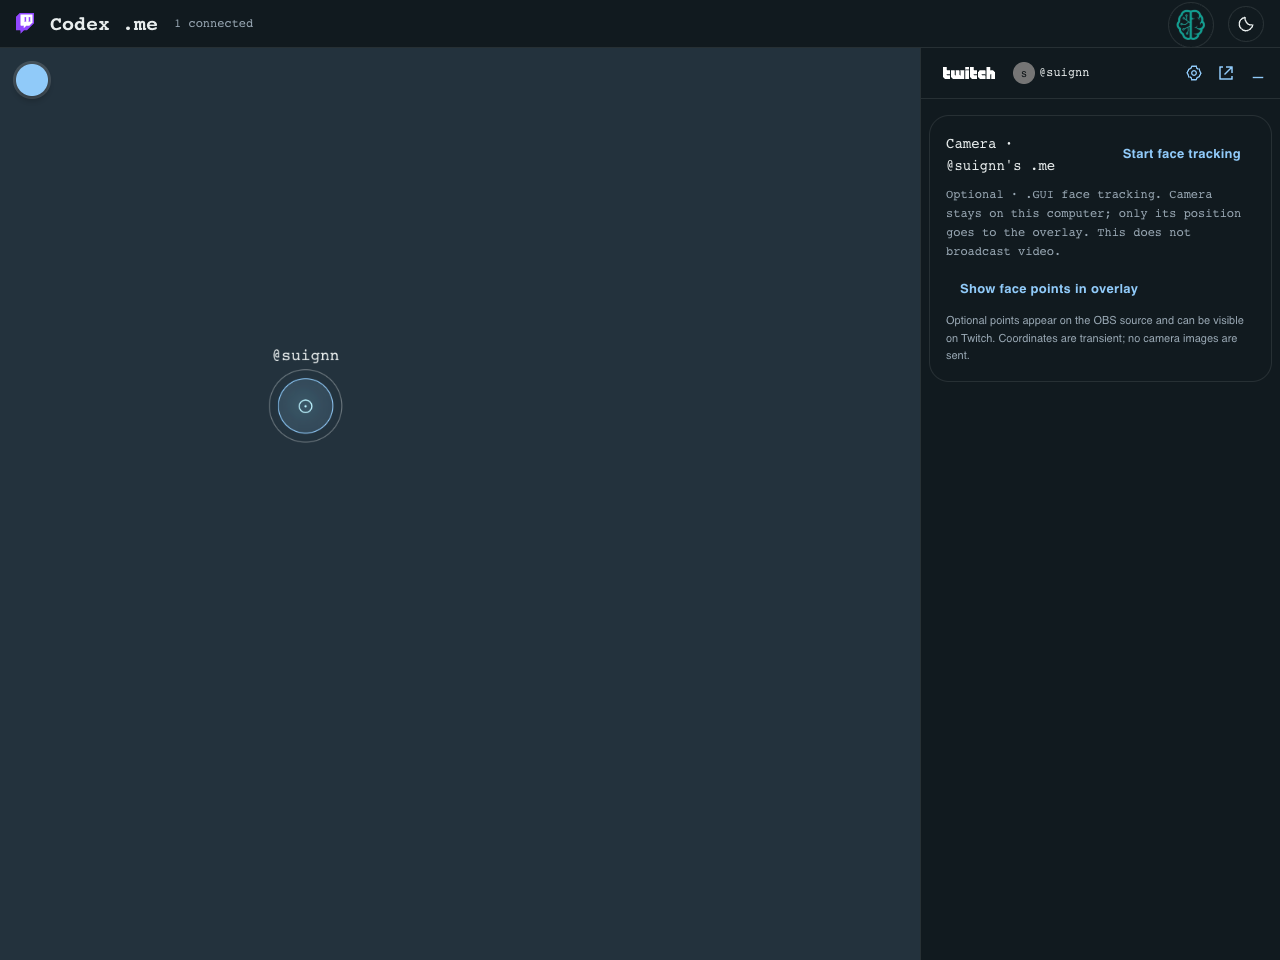
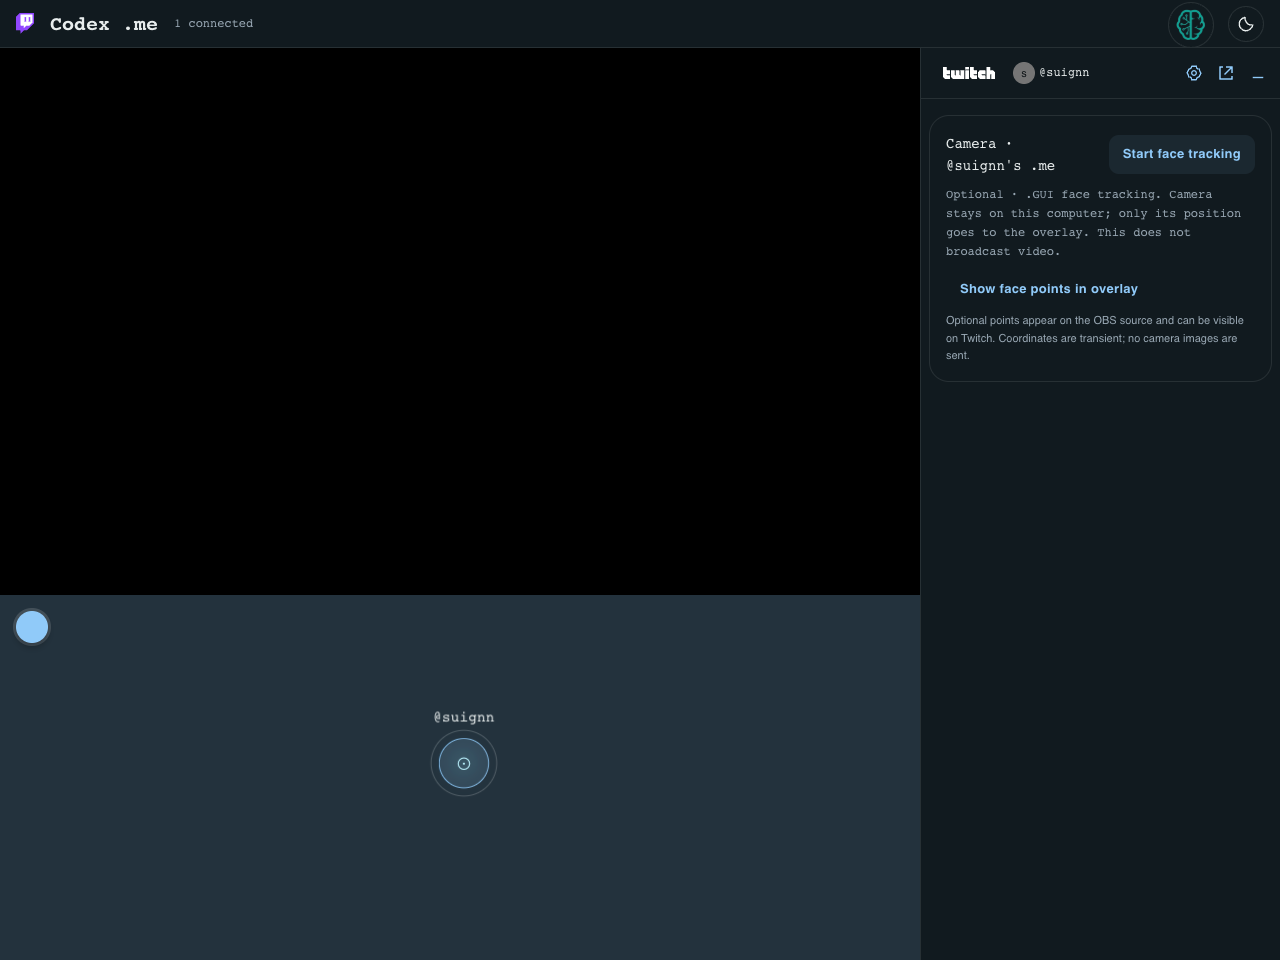
fix: restore bubble card and show Twitch video in web demo

diff --git a/overlay/spiders.js b/overlay/spiders.js
@@ -1,4 +1,5 @@
-import { StreamPresentation, KernelLiveValues } from './stream-presentation.js';
+import { TwitchVideo } from './twitch-video.js';
+import { StreamPresentation } from './stream-presentation.js';
 import { SceneTint } from './scene-tint.js';
 import { FaceControls } from './face-controls.js';
 import { ObsControls } from '/ui/obs-controls.js';
@@ -55,9 +56,8 @@ function BubbleNavigation({ anchor, kernel, path, selectPath, onClose }) {
   return h(Box, { ref: card, 'data-bubble-navigation': kernel.id, role: 'region', 'aria-label': `Controls for @${kernel.owner}`, onKeyDown: event => { if (event.key === 'Escape') { event.stopPropagation(); onClose(); anchor.focus(); } },
     sx: { position: 'absolute', ...position, zIndex: 5, boxSizing: 'border-box', p: 1.5, overflowY: 'auto', bgcolor: 'background.paper', color: 'text.primary', border: 1, borderColor: 'divider', borderRadius: 2, boxShadow: 6, '& [data-path-selected="true"]': { outline: '1px solid', outlineColor: 'primary.main', outlineOffset: 2 } } },
     h(TwitchProfile, { kernel, compact: true, onClose, path, selectPath }),
-    h(KernelLiveValues, { kernel, path, selectPath }),
-    h(TwitchSections, { owner: kernel.owner, path, selectPath }),
-    path.startsWith('twitch') ? h(TwitchSurface, { key: kernel.id, kernel, path, selectPath }) : h(KernelConsole, { kernel, path }));
+    h(TwitchSections, { owner: kernel.owner, path: path.startsWith('twitch') ? path : 'twitch.stream', selectPath }),
+    h(TwitchSurface, { key: kernel.id, kernel, path: path.startsWith('twitch') ? path : 'twitch.stream', selectPath }));
 }
 function Kernel({ kernel, index, count, selected, onSelect, face }) {
   const columns = Math.max(1, Math.ceil(Math.sqrt(count * 16 / 9))), rows = Math.ceil(count / columns);
@@ -167,14 +167,14 @@ function App() {
     hostPresenting.current = showing;
     const timer = setTimeout(async () => {
       try {
-        const response = await fetch('/api/presentation', { method: 'POST', headers: { 'Content-Type': 'application/json', 'X-CSRF-Token': presenter.csrf }, body: JSON.stringify(current && bubbleAnchor && path ? { id: current.id, path, operation: 'explain' } : { visible: false }) });
+        const response = await fetch('/api/presentation', { method: 'POST', headers: { 'Content-Type': 'application/json', 'X-CSRF-Token': presenter.csrf }, body: JSON.stringify(current && bubbleAnchor && path ? { id: current.id, path: path === 'twitch' ? 'twitch.stream' : path, operation: 'explain' } : { visible: false }) });
         setPresentError(response.ok ? '' : 'Could not share selection with OBS. Reload the demo to reconnect.');
       } catch { setPresentError('Could not share selection with OBS.'); }
     }, 250);
     return () => clearTimeout(timer);
   }, [presenter, current?.id, path, !!bubbleAnchor]);
 
-  const section = path === 'twitch' ? 'stream' : path.split('.')[1];
+  const section = path === 'twitch' || (bubbleAnchor && !path.startsWith('twitch.')) ? 'stream' : path.split('.')[1];
   const detailsVisible = (!panelCollapsed && panel === 'inspector') || !!bubbleAnchor;
   React.useEffect(() => {
     if (path.startsWith('twitch.stream.') && current?.graph?.nodes.some(node => node.path === path && node.value == null)) selectPath('twitch.stream');
@@ -204,7 +204,7 @@ function App() {
   };
   const openKernel = (kernel, anchor) => {
     if (transparent) return;
-    if (selected !== kernel.id) { select(kernel.id); selectPath('active'); }
+    if (selected !== kernel.id) { select(kernel.id); selectPath('twitch'); }
     setBubbleAnchor(selected === kernel.id && bubbleAnchor ? null : anchor);
   };
   const scene = h(Box, { component: 'main', sx: { minWidth: 0, minHeight: 0, height: '100%', position: 'relative', color: 'text.primary' } },
@@ -223,7 +223,7 @@ function App() {
       h(Typography, { component: 'a', href: '/', sx: { ...mono, fontSize: 20, fontWeight: 600, color: 'inherit', textDecoration: 'none', '&:hover': { textDecoration: 'underline' } } }, 'Codex .me'),
       h(Typography, { sx: { ...mono, color: 'text.secondary', fontSize: 12 } }, `${kernels.length} ${connected ? 'connected' : 'connecting…'}`), h(Box, { sx: { flex: 1 } }),
       h(ThemeSelector, { reservedRight: panelMode === 'docked' && panel === 'chat' ? 360 : 0 }), h(ModeToggle)),
-    h(Box, { sx: { position: 'relative', display: 'grid', gridTemplateColumns: panelMode === 'docked' ? 'minmax(0, 1fr) 360px' : 'minmax(0, 1fr)', minHeight: 0 } }, scene,
+    h(Box, { sx: { position: 'relative', display: 'grid', gridTemplateColumns: panelMode === 'docked' ? 'minmax(0, 1fr) 360px' : 'minmax(0, 1fr)', minHeight: 0 } }, h(Box, { 'data-web-stage': true, sx: { display: 'grid', gridTemplateRows: 'minmax(300px, 3fr) minmax(180px, 2fr)', minWidth: 0, minHeight: 0, overflow: 'auto' } }, h(TwitchVideo, { channel: channelInfo?.channel }), scene),
       h(Box, { component: 'aside', ref: panelElement, 'aria-label': 'Side panel', 'data-panel-mode': panelMode, sx: { ...(panelMode !== 'docked' ? { position: 'absolute', ...(panelPosition ? { left: panelPosition.left, top: panelPosition.top } : { bottom: panelCollapsed ? 0 : 12, right: 12 }), width: 360, minWidth: 320, maxWidth: panelPosition ? `calc(100% - ${panelPosition.left}px)` : 'calc(100% - 12px)', resize: panelCollapsed ? 'horizontal' : 'both', minHeight: panelCollapsed ? 48 : 280, maxHeight: panelPosition ? `calc(100% - ${panelPosition.top}px)` : 'calc(100% - 12px)', height: panelCollapsed ? 'auto' : 'min(560px, calc(100% - 24px))', zIndex: 2, border: 1, borderRadius: '8px 8px 0 0', boxShadow: 8, overflow: 'hidden' } : { minHeight: 0 }), display: 'flex', flexDirection: 'column', borderLeft: 1, borderColor: 'divider', bgcolor: 'background.paper' } },
         h(Box, { onPointerDown: dragPanel, onPointerMove: movePanel, onPointerUp: () => { panelDrag.current = null; }, onPointerCancel: () => { panelDrag.current = null; }, sx: { cursor: panelMode === 'docked' ? 'default' : 'grab', touchAction: 'none', flexShrink: 0, display: 'flex', alignItems: 'center', gap: .5, p: 1, borderBottom: panelCollapsed ? 0 : 1, borderColor: 'divider' } },
           h(Button, { size: 'small', variant: panel === 'chat' ? 'outlined' : 'text', onClick: () => choosePanel('chat'), 'aria-label': 'Twitch', 'aria-pressed': panel === 'chat', sx: { ...mono, minHeight: 32 } }, h(TwitchWordmark, { width: 52 })),

diff --git a/overlay/stream-presentation.js b/overlay/stream-presentation.js
@@ -4,17 +4,10 @@ export function StreamPresentation({ view }) {
   return h('foreignObject', { x: 55, y: 70, width: 720, height: 900, pointerEvents: 'none', 'data-stream-presentation': view.id, 'data-presentation-path': view.path },
     h(G.Atoms.Box, { sx: { p: 3, borderRadius: 3, bgcolor: 'rgba(9,15,20,.94)', color: '#f2f7f5', border: '1px solid rgba(180,230,210,.4)', fontFamily: 'monospace', overflow: 'hidden' } },
       h('div', { style: { fontSize: 23, marginBottom: 18, color: '#a8ead1' } }, `me://${view.owner}/${view.path.replaceAll('.', '/')}`),
-      view.rows.slice(0, 6).map(row => h('div', { key: row.path, style: { marginBottom: 20 } },
+      view.rows.filter(row => !(row.path.startsWith('twitch.stream.') && row.value == null)).slice(0, 6).map(row => h('div', { key: row.path, style: { marginBottom: 20 } },
         h('div', { style: { fontSize: 19, opacity: .7 } }, row.path),
         h('div', { 'data-presented-value': row.path, style: { fontSize: 30, fontWeight: 600, overflowWrap: 'anywhere', display: '-webkit-box', WebkitLineClamp: 2, WebkitBoxOrient: 'vertical', overflow: 'hidden' } }, JSON.stringify(row.value)),
         view.operation === 'explain' ? h('div', { 'data-presented-explain': row.path, style: { marginTop: 7, fontSize: 18, lineHeight: 1.5, overflowWrap: 'anywhere' } }, row.reason) : null,
         view.operation === 'explain' && row.inputs?.length ? h('div', { style: { marginTop: 10, fontSize: 18, color: '#a8ead1', lineHeight: 1.5 } }, row.inputs.map(input => `${input.path}: ${JSON.stringify(input.value)} → ${row.path}`).join(' · ')) : null)),
       view.total > 6 ? h('div', { style: { fontSize: 17, opacity: .7 } }, `${view.total - 6} more paths in the app`) : null));
-}
-export function KernelLiveValues({ kernel, path, selectPath }) {
-  const nodes = (kernel.graph?.nodes || []).filter(n => ['enabled','energy','active','face.present','face.x','face.y'].includes(n.path));
-  return h(G.Atoms.Box, { sx: { display: 'flex', gap: .5, flexWrap: 'wrap', mb: 1 } }, nodes.map(node => h(G.Atoms.Button, {
-    key: node.path, size: 'small', 'data-live-path': node.path, 'aria-pressed': path === node.path, onClick: () => selectPath(node.path),
-    sx: { fontFamily: 'monospace', fontSize: 11, textTransform: 'none', bgcolor: path === node.path ? 'action.selected' : 'transparent' }
-  }, `${node.path}: ${JSON.stringify(node.value)}`)));
 }

diff --git a/overlay/twitch-video.js b/overlay/twitch-video.js
@@ -1,0 +1,13 @@
+// Official Twitch video player. Web-only: never load it into the OBS source.
+const h = window.React.createElement, G = window.GUI;
+export function TwitchVideo({ channel }) {
+  if (!/^[a-z0-9_]{1,25}$/i.test(channel || '')) return h(G.Atoms.Box, { role: 'status', sx: { display: 'grid', placeItems: 'center', minHeight: 300, bgcolor: '#000', color: '#fff' } }, 'Loading Twitch video…');
+  const src = new URL('https://player.twitch.tv/');
+  src.searchParams.set('channel', channel);
+  src.searchParams.set('parent', location.hostname);
+  src.searchParams.set('muted', 'true');
+  src.searchParams.set('autoplay', 'true');
+  return h(G.Atoms.Box, { 'data-twitch-video': channel, component: 'section', 'aria-label': `Live video from ${channel}`, sx: { minWidth: 400, minHeight: 300, position: 'relative', bgcolor: '#000' } },
+    h('iframe', { title: `${channel} Twitch live video`, src: src.href, allow: 'autoplay; fullscreen; picture-in-picture', allowFullScreen: true,
+      style: { display: 'block', width: '100%', height: '100%', border: 0, minWidth: 400, minHeight: 300 } }));
+}

diff --git a/README.md b/README.md
@@ -71,7 +71,7 @@ The selected kernel's profile header renders its real Twitch avatar, display nam
 
 The profile and bubble card use the label `@<login>.twitch` with the actual avatar and Twitch logo. This is a local account label, not a claimed protocol namespace or a registered domain. **Stream / Channel / Followers** are always-visible card tabs; Profile facts remain available in the technical inspector. The bubble is a rendered GUI surface: Channel is a labeled form with a human-readable language name and tags; Stream shows live/offline status and live statistics; Followers shows the actual count. The account header itself is the rendered profile, and its Twitch icon opens the channel and has an accessible **Open in Twitch** tooltip; no duplicate profile tab or View on Twitch button is shown. Twitch resource forms retain their rendered GUI presentation; live facts expose their native output and explanation. Channel, Stream and Followers are API resource choices, not invented kernel facts before loading.
 
-Clicking a bubble opens its controls beside the node, synchronized with the inspector. Both share the selected kernel/path. Clicking or focusing a channel field, selecting tags, a profile avatar/display name, a follower count or any available live-stream value selects its matching inspector leaf. The matching rendered control receives a theme-colored outline. Selecting a branch or leaf in the inspector also reopens the selected node’s card if closed, without moving keyboard focus or changing the active sidebar. Selecting a profile ID highlights its account header; no extra ID field is added to the GUI. The card initially selects active; its live fact shortcuts and existing Twitch section tabs select real paths. The inspector tree begins at me and includes twitch, enabled, energy, face and active. Closing the card preserves selection. Editing controls remain outside the transparent OBS source; the selected public value and reason are shared through the presentation card.
+Clicking a bubble opens its controls beside the node, synchronized with the inspector. Both share the selected kernel/path. Clicking or focusing a channel field, selecting tags, a profile avatar/display name, a follower count or any available live-stream value selects its matching inspector leaf. The matching rendered control receives a theme-colored outline. Selecting a branch or leaf in the inspector also reopens the selected node’s card if closed, without moving keyboard focus or changing the active sidebar. Selecting a profile ID highlights its account header; no extra ID field is added to the GUI. The bubble card retains its original profile and Stream / Channel / Followers UI, initially showing Stream. Live facts and rule code stay in the Inspector; they are not added to the bubble card. The inspector tree begins at me and includes twitch, enabled, energy, face and active. Closing the card preserves selection. Editing controls remain outside the transparent OBS source; the selected public value and reason are shared through the presentation card.
 
 The inspector alone presents formatted whole-section JSON or a compact leaf value, with an icon-only Copy action and no surrounding code card. Its code tree starts at **me**, including the live graph and **twitch** branch, with **profile / stream / channel / followers** as lowercase property keys instead of category tabs. Expand branches to see actual stored leaves and their values, then select a row to inspect it. The root is a navigation view without a duplicate aggregate output; selecting a branch or leaf reveals its Output, Explain and Script controls. Arrow keys, Home/End and Enter navigate the tree. Branches are UI groupings of real memory paths; unloaded API sections have no fabricated values and are fetched on selection. Long string previews are truncated in the tree, while selecting the leaf exposes its complete value. It automatically reads `me(path)` from the existing server kernel. Compact **Explain / Script** controls below the output show the actual `me.explain(path)` JSON or the complete construction source, including expression, derivation and metadata from this.me 4.2.1. Tab selection persists across paths and kernels; obsolete query results are hidden. Explain is initially selected; arrow keys and Home/End navigate the tabs. Native GUI syntax highlighting is preserved without code-block headers, borders or backgrounds; copy actions use the overlapping-squares icon with accessible tooltips. Explain presents the matching syntax directly on the inspector background. Its compact **L…** link identifies the original source line(s), and the **{}** icon reveals the unmodified native explanation only when requested. The location link (**View in Script** to assistive technology) opens the complete, numbered script and scrolls to the highlighted declaration. Locations refer to the currently displayed reproducible construction script; they are not native VM execution frames or historical call stacks. Unrelated profile/section declarations are omitted from the Explain excerpt. The construction script is not re-executed, and arbitrary code/eval is not accepted. This object inspector is separate from GUI's general interface inspector and browser DOM developer tools. Face following changes presentation only. Bubble sizes use a larger resting cap (3.6) and tracking scale (2.8), with density limits and proportional frame margins to keep the scene readable.
 
@@ -183,3 +183,9 @@ The existing GUI tracker supplies the real landmarks; only every fourth valid po
 ## Final demo verification
 
 Run `npm test`, `npm run check:server`, and `CHROME="/Applications/Google Chrome.app/Contents/MacOS/Google Chrome" CHECK_PORT=3018 npm run check:live` sequentially on a free test port. The live-graph check uses simulated Twitch with the actual kernel, HTTP server, two browser views and WebSockets; it does not send real Twitch messages. Camera-specific checks: `CHECK_PORT=3018 node tools/face-check.mjs` with the same CHROME variable. [English video plan and live recording checklist](docs/DEMO-VIDEO.md). A passing offline check is not evidence of a completed public Twitch recording or submission.
+
+## Watching the stream inside the app
+
+The web demo includes the [official Twitch video player](https://dev.twitch.tv/docs/embed/video-and-clips/) above the interactive local scene, beside the existing chat. It uses the configured channel and the required parent hostname, starts muted to avoid audio feedback, and leaves the native player controls unobstructed. If autoplay is blocked, press Play. When the channel is offline, the Twitch player displays its own offline state; this does not start a broadcast. The lower scene remains interactive and can be used to select a bubble or inspect its public data.
+
+The transparent OBS source contains no Twitch video iframe, avoiding recursive capture. It continues to provide only the source overlay/presentation. The browser video shows the delayed stream already composed by OBS; the separate lower scene shows local controls and current state. No second local bubble layer is placed on top of the embedded video.

diff --git a/evidence/SESSION.md b/evidence/SESSION.md
@@ -652,3 +652,11 @@ Added enabled/energy facts, a native active rule, on/off, bounded set, read/expl
 Checks: all10 original tests and19 server integration tests pass. The synthetic face check passes. New check:live passes with real kernel/server/HTTP/WebSocket/two browsers and simulated Twitch: host open/path/close synchronization; viewer declaration and energy20→active=false; native explanations; per-user isolation; rate limits; rejected injection/read-only writes; face-presence reactions; repeated coordinate updates; CSRF/Origin rejection. Initial unit attempt correctly hit the existing burst limit and was corrected to advance its test clock. A proposed coordinate comparison was not retained because absent/null coordinates propagate an unavailable native result; this MVP compares energy and uses boolean face.present in AND. No native semantics were invented.
 
 Restarted only the confirmed codex-me server after checking3017 free. Tokens were reused; EventSub reconnected. Real localhost browser verification selected the owner’s active value in the app and observed the true value/native explanation in a separate transparent source. Screenshot saved outside repo at /private/tmp/codex-me-shared-explain.png. Native OBS automation timed out, so its Browser source still requires a manual Refresh. No real Twitch chat messages, broadcast Start/Stop, pushes, deployments or submissions were performed. Viewer kernels are session-only and must be redeclared after restart. Added an English sub-three-minute recording plan in docs/DEMO-VIDEO.md with the dedicated session ID, and updated README. Real Twitch rehearsal/video/public submission remain outstanding.
+
+### 2026-10-30 — Restore the agreed bubble card and actually show Twitch video
+
+User correctly rejected the unsolicited live-fact/code controls inside the existing bubble card, and pointed out the missing promised video. Removed those controls and restored the original profile plus Stream / Channel / Followers card, initially Stream. Code/output/explanations remain in the Inspector; the underlying safe commands/shared presentation remain. Inspector selections on non-Twitch paths no longer replace the bubble card with code.
+
+Added the official channel video iframe (required parent, muted autoplay, native controls) only in the web view, in a dedicated area above the interactive local scene and beside chat. Player minimum dimensions400×300 are preserved. The transparent OBS view has no player iframe, avoiding feedback. The video already contains the delayed OBS composition; no second bubble layer is placed over it.
+
+Updated check:live verifies original card tabs/no injected console, player channel/parent/muted attributes and size, video and interactive scene nonoverlap, absence of any iframe in OBS, host field/close synchronization and safe chat→native explain. It passes. The synthetic face integration also passes with video/chat mocked; original tests were not modified. Actual localhost browser loaded the suignn player showing LIVE, playback was started with Play when autoplay remained paused, and Pause plus live camera frames were observed. Restored card showed Stream selected and Live now, with no added facts/code. Public stream screenshot is kept outside the repository at /private/tmp/codex-me-video-restored-card.png. No camera was interrupted, no server restart, no Twitch messages or broadcast actions, no pushes/deploys.

diff --git a/docs/DEMO-VIDEO.md b/docs/DEMO-VIDEO.md
@@ -9,7 +9,7 @@ Target duration: 2:40. Record actual Twitch behavior; do not describe the offlin
 | 0:35–0:55 | After the write cooldown, send `!me set energy 20`. Bubble dims; the public card shows active=false and its real dependencies. | “A fact changes. The rule reacts. Everyone watching can see the result and its reason.” |
 | 0:55–1:15 | Send `!me rule active threshold 10`. It activates. | “Rules come from bounded templates. Chat cannot execute arbitrary scripts or edit someone else’s graph.” |
 | 1:15–1:35 | Send `!me explain active`. Show the actual Twitch output and explanation card on video. | “This explanation comes from the kernel, not generated text or an LLM.” |
-| 1:35–1:55 | Streamer opens a bubble and selects energy, then active; compare the app and OBS program preview. Close it to clear. | “The streamer’s selected public value is synchronized to the broadcast. Private controls stay in the app.” |
+| 1:35–1:55 | Streamer opens the existing bubble card, then selects energy and active in the Inspector; compare the app and OBS program preview. Close it to clear. | “The streamer’s selected public value is synchronized to the broadcast. Private controls stay in the app.” |
 | 1:55–2:10 | Optional: tracking already authorized; use `!me rule active and enabled face.present`. Face enters/leaves camera. | “The streamer’s face presence is a read-only input. Viewers can react to it but cannot turn on a camera.” |
 | 2:10–2:35 | Codex session, selected source changes, tests and session ID. | “I built the OAuth, EventSub and chat bridge, shared presentation, safe command handling and integration checks with Codex, using my existing this.me and this.gui libraries.” |
 | 2:35–2:40 | Project name and repository. | “Codex .me: a live graph that explains itself, built together through Twitch chat.” |
